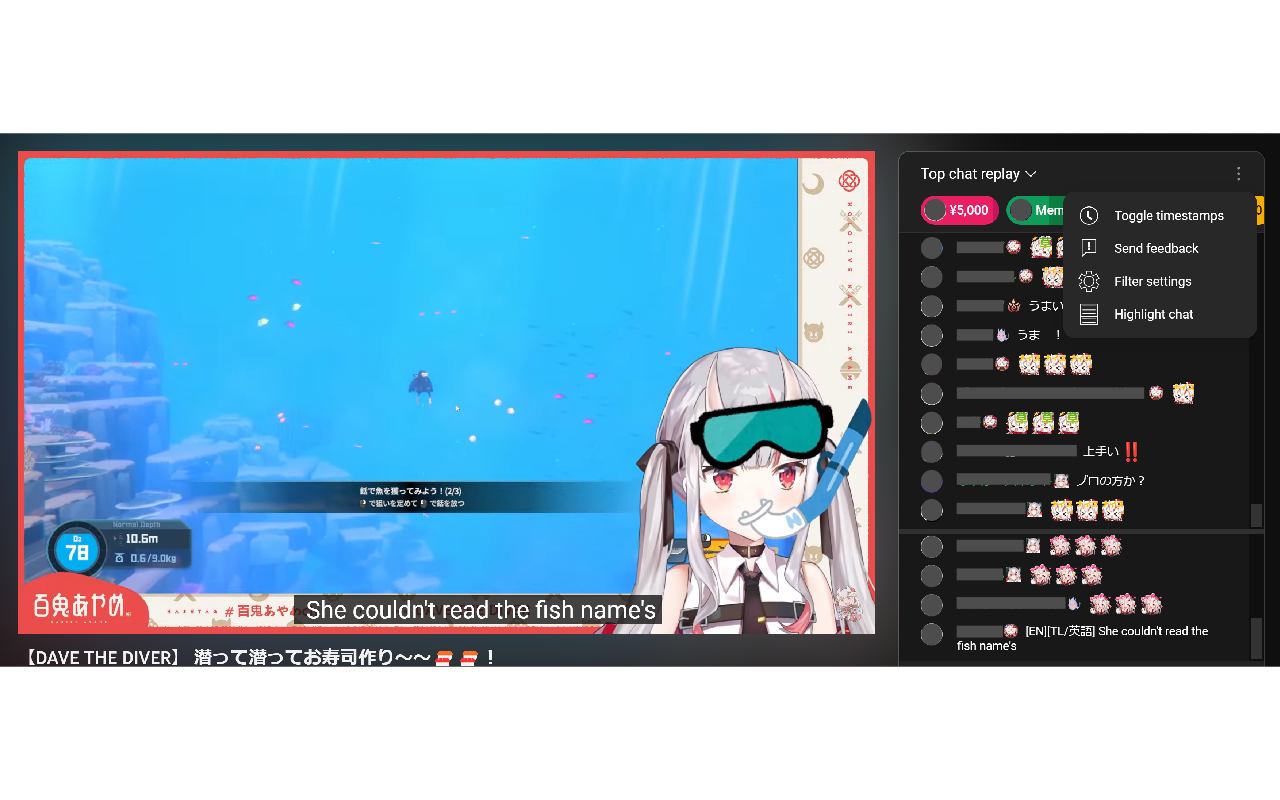
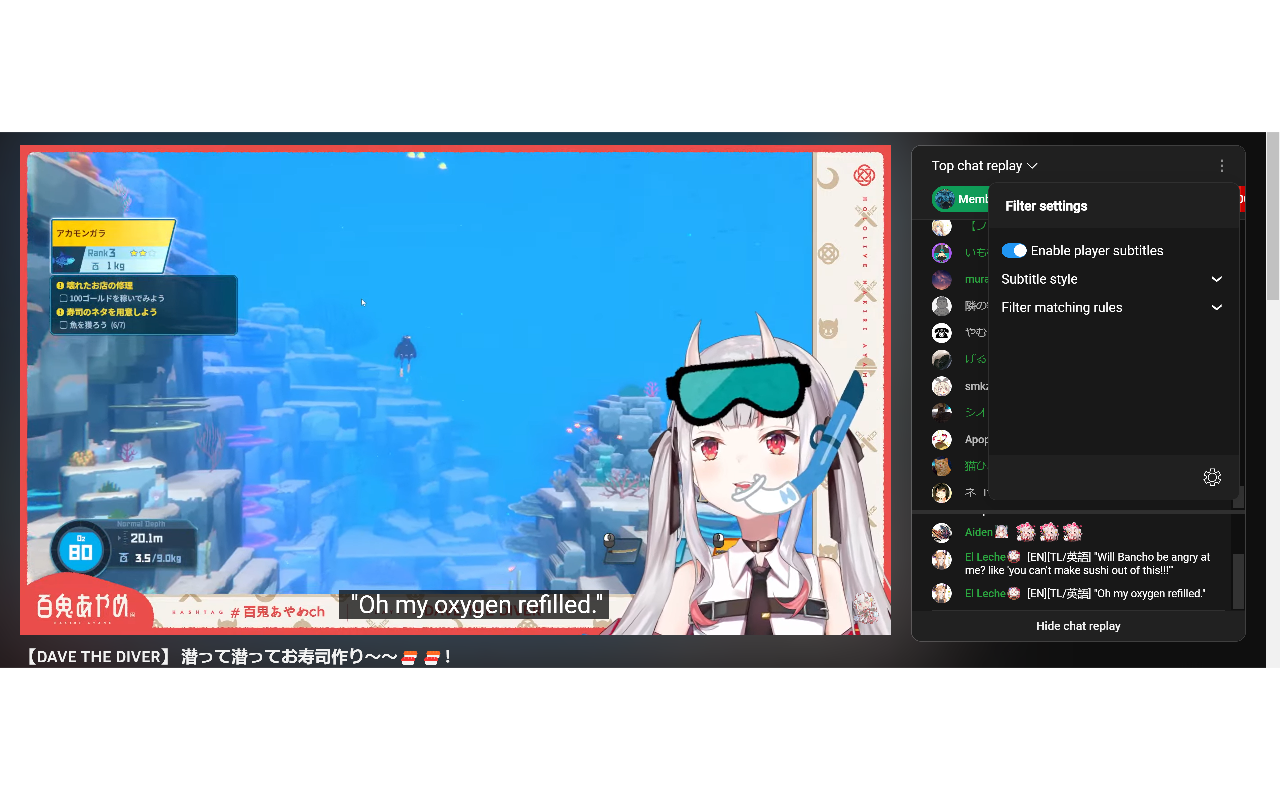
Fixed bug of overlay pos being NaN Fixed bug of chatbox size not being 0 when set Improved style of drop down settings Improved Japanese translation Improved English translation

diff --git a/add-on/youtube_overlay.js b/add-on/youtube_overlay.js
@@ -214,59 +214,69 @@
      * @param dY Y direction
      */
     setOverlayPosition(dX, dY) {
-        let bottom = this.pos.bottom;
-        let top = this.pos.top;
-        let left = this.pos.left;
-        let right = this.pos.right;
+        let pos = this.pos;
 
-        if (dX !== undefined && dY !== undefined) {
-            left = left + dX;
-            bottom = bottom + dY;
-            right = right - dX;
-            top = top - dY;
-        }
+        if (this.player !== null && this.player.clientHeight && this.player.clientHeight != 0 && this.player.clientWidth != 0) {
+            let bottom = this.pos.bottom;
+            let top = this.pos.top;
+            let left = this.pos.left;
+            let right = this.pos.right;
 
-        let maxWidth = 1 - this.overlayWidth / this.player.clientWidth;
-        let maxHeight = 1 - this.overlayText.clientHeight / this.player.clientHeight;
+            if (dX !== undefined && dY !== undefined) {
+                left = left + dX;
+                bottom = bottom + dY;
+                right = right - dX;
+                top = top - dY;
+            }
 
-        // Clamp pixel position
-        left = Math.max(Math.min(maxWidth, left), 0);
-        right = Math.max(Math.min(maxWidth, right), 0);
-        bottom = Math.max(Math.min(maxHeight, bottom), 0);
-        top = Math.max(Math.min(maxHeight, top), 0);
+            let maxWidth = 1 - this.overlayWidth / this.player.clientWidth;
+            let maxHeight = 1 - this.overlayText.clientHeight / this.player.clientHeight;
 
-        let pos = {
-            top: top,
-            bottom: bottom,
-            left: left,
-            right: right
-        };
+            // Clamp pixel position
+            left = Math.max(Math.min(maxWidth, left), 0);
+            right = Math.max(Math.min(maxWidth, right), 0);
+            bottom = Math.max(Math.min(maxHeight, bottom), 0);
+            top = Math.max(Math.min(maxHeight, top), 0);
 
-        // Relative position
-        left = left * 100;
-        right = right * 100;
-        bottom = bottom * 100;
-        top = top * 100;
+            pos = {
+                top: top,
+                bottom: bottom,
+                left: left,
+                right: right
+            };
 
-        // Set position
-        if (left < maxWidth * 50) {
-            this.overlay.style.left = `${left}%`;
-            this.overlay.style.right = "";
-            pos.right = maxWidth - pos.left;
-        } else {
-            this.overlay.style.left = "";
-            this.overlay.style.right = `${right}%`;
-            pos.left = maxWidth - pos.right;
-        }
+            // Relative position
+            left = left * 100;
+            right = right * 100;
+            bottom = bottom * 100;
+            top = top * 100;
 
-        if (bottom < maxHeight * 30) {
-            this.overlay.style.bottom = `${bottom}%`;
-            this.overlay.style.top = "";
-            pos.top = maxHeight - pos.bottom;
-        } else {
-            this.overlay.style.bottom = "";
-            this.overlay.style.top = `${top}%`;
-            pos.bottom = maxHeight - pos.top;
+            // Set position
+            if (left < maxWidth * 50) {
+                this.overlay.style.left = `${left}%`;
+                this.overlay.style.right = "";
+                pos.right = maxWidth - pos.left;
+            } else {
+                this.overlay.style.left = "";
+                this.overlay.style.right = `${right}%`;
+                pos.left = maxWidth - pos.right;
+            }
+
+            if (bottom < maxHeight * 30) {
+                this.overlay.style.bottom = `${bottom}%`;
+                this.overlay.style.top = "";
+                pos.top = maxHeight - pos.bottom;
+            } else {
+                this.overlay.style.bottom = "";
+                this.overlay.style.top = `${top}%`;
+                pos.bottom = maxHeight - pos.top;
+            }
+
+            // Save not undedined
+            if (isNaN(pos.left) || isNaN(pos.right) || isNaN(pos.bottom) || isNaN(pos.top)) {
+                console.log(`overlayPos is NaN: ${pos}`);
+                pos = this.pos;
+            }
         }
 
         return pos;
@@ -276,37 +286,39 @@
      * Updates text element
      */
     updateSize() {
-        // Size video
-        this.videoWidth = this.video.style.width.replace("px", "");
-        this.videoHeight = this.video.style.height.replace("px", "");
+        if (this.player !== null && this.player.clientHeight != 0 && this.player.clientWidth != 0) {
+            // Size video
+            this.videoWidth = this.video.style.width.replace("px", "");
+            this.videoHeight = this.video.style.height.replace("px", "");
 
-        this.overlayWidth = this.videoWidth * 0.65;
-        this.fontSize = this.style["fontSize"] * this.videoHeight * 0.05;
+            this.overlayWidth = this.videoWidth * 0.65;
+            this.fontSize = this.style["fontSize"] * this.videoHeight * 0.05;
 
-        // Resize fontSize and overlay width
-        this.overlay.style.width = `${this.overlayWidth}px`;
+            // Resize fontSize and overlay width
+            this.overlay.style.width = `${this.overlayWidth}px`;
 
-        let element = this.overlayText.firstElementChild;
-        if (element !== null) {
-            element.style.fontSize = `${this.fontSize}px`;
+            let element = this.overlayText.firstElementChild;
+            if (element !== null) {
+                element.style.fontSize = `${this.fontSize}px`;
+            }
+
+            // Relative max size of margin [0..1]
+            let maxWidth = 1 - this.overlayWidth / this.player.clientWidth;
+            let maxHeight = 1 - this.fontSize / this.player.clientHeight;
+
+            // Add margin
+            let dW = maxWidth - this.pos.left - this.pos.right;
+            let dH = maxHeight - this.pos.top - this.pos.bottom;
+            let marginWidth = this.pos.left + this.pos.right + 1e-3;
+            let marginHeight = this.pos.top + this.pos.bottom + 1e-3;
+
+            this.pos.left = Math.max(this.pos.left + dW * this.pos.left / marginWidth, 0);
+            this.pos.right = Math.max(this.pos.right + dW * this.pos.right / marginWidth, 0);
+            this.pos.top = Math.max(this.pos.top + dH * this.pos.top / marginHeight, 0);
+            this.pos.bottom = Math.max(this.pos.bottom + dH * this.pos.bottom / marginHeight, 0);
+
+            this.pos = this.setOverlayPosition();
         }
-
-        // Relative max size of margin [0..1]
-        let maxWidth = 1 - this.overlayWidth / this.player.clientWidth;
-        let maxHeight = 1 - this.fontSize / this.player.clientHeight;
-
-        // Add margin
-        let dW = maxWidth - this.pos.left - this.pos.right;
-        let dH = maxHeight - this.pos.top - this.pos.bottom;
-        let marginWidth = this.pos.left + this.pos.right + 1e-3;
-        let marginHeight = this.pos.top + this.pos.bottom + 1e-3;
-
-        this.pos.left = Math.max(this.pos.left + dW * this.pos.left / marginWidth, 0);
-        this.pos.right = Math.max(this.pos.right + dW * this.pos.right / marginWidth, 0);
-        this.pos.top = Math.max(this.pos.top + dH * this.pos.top / marginHeight, 0);
-        this.pos.bottom = Math.max(this.pos.bottom + dH * this.pos.bottom / marginHeight, 0);
-
-        this.pos = this.setOverlayPosition();
     }
 
     /**

diff --git a/add-on/storage.js b/add-on/storage.js
@@ -18,7 +18,9 @@ function sync_get(array, callback) {
         for (let id of array) {
             switch (id) {
                 case "size":
-                    result.size = result.size || 30;
+                    if (result.size === undefined) {
+                        result.size = 30;
+                    }
                     break;
                 case "enableHighlight":
                     if (result.enableHighlight === undefined) {
@@ -74,6 +76,18 @@ function sync_get(array, callback) {
                         top: 0.98,
                         right: 0.14
                     };
+
+                    // Bug resulting in overlayPos being undefined, breaking overlay
+                    if (isNaN(result.overlayPos.left) || isNaN(result.overlayPos.bottom) || isNaN(result.overlayPos.top) || isNaN(result.overlayPos.right)) {
+                        console.log("Storage: overlayPos is NaN");
+ 
+                        result.overlayPos = {
+                            left: 0.212,
+                            bottom: 0.02,
+                            top: 0.98,
+                            right: 0.14
+                        }
+                    }
                     break;
             }
         }

diff --git a/add-on/dropdown_settings/style.css b/add-on/dropdown_settings/style.css
@@ -1,3 +1,11 @@
+@media (color: var(--yt-spec-text-primary-inverse)) {
+
+}
+
+@media (color: var(--yt-spec-text-primary)) {
+
+}
+
 #sf-settings {
     display: flex;
     flex-direction: column;
@@ -41,10 +49,6 @@ input {
     background-color: var(--yt-spec-additive-background);
 }
 
-    input:hover {
-        background-color: var(--yt-spec-10-percent-layer);
-    }
-
 select, option {
     background-color: var(--yt-live-chat-header-background-color, #f8f8f8);
 }
@@ -60,6 +64,14 @@ select, input, option {
     color: var(--yt-live-chat-primary-text-color);
     border: 1px solid var(--yt-spec-additive-background);
 }
+
+    input[disabled] {
+        opacity: 0.3;
+    }
+
+    input[type=button]:hover {
+        background-color: var(--yt-spec-10-percent-layer);
+    }
 
 .switch {
     margin-right: 5px;
